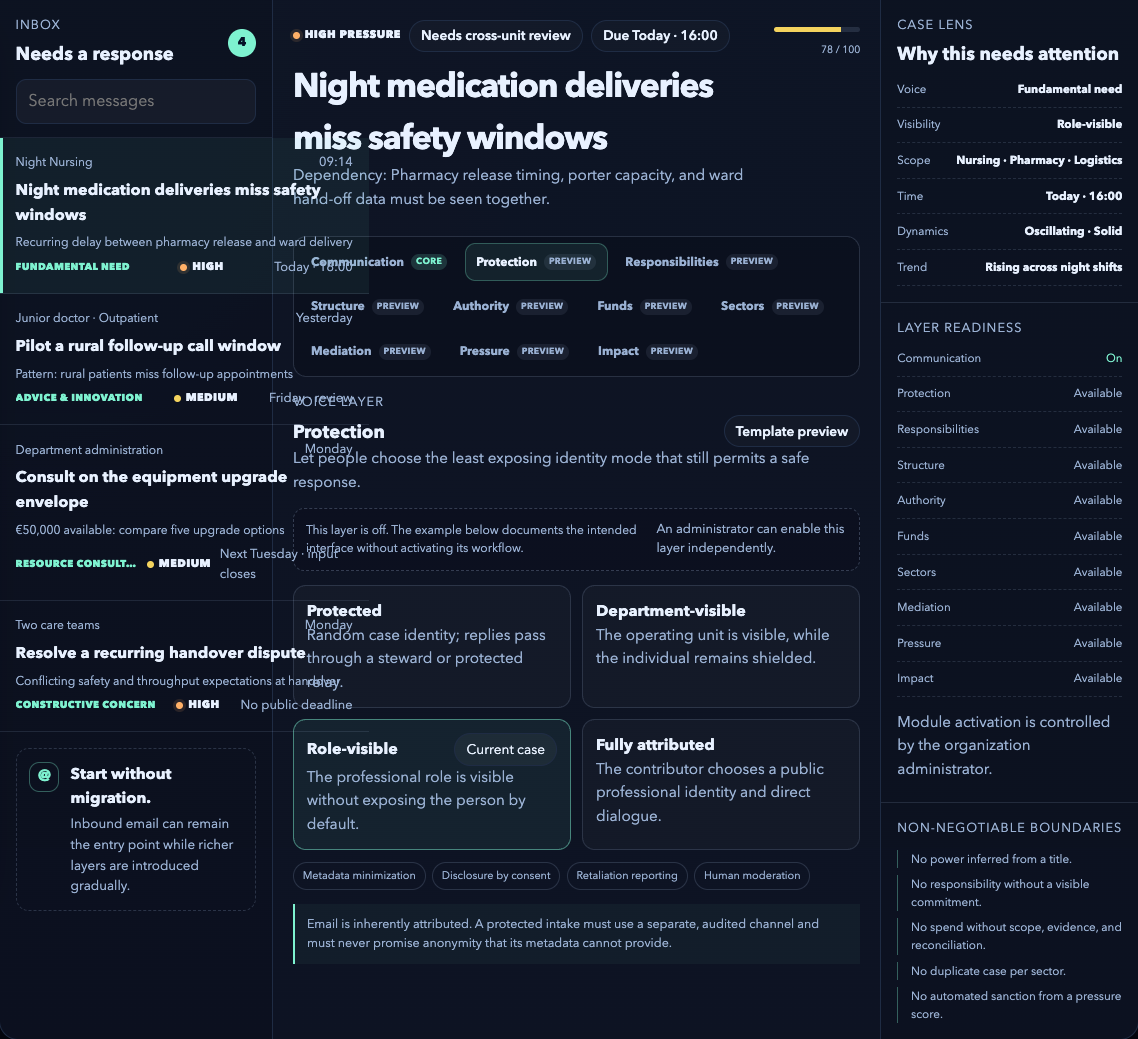
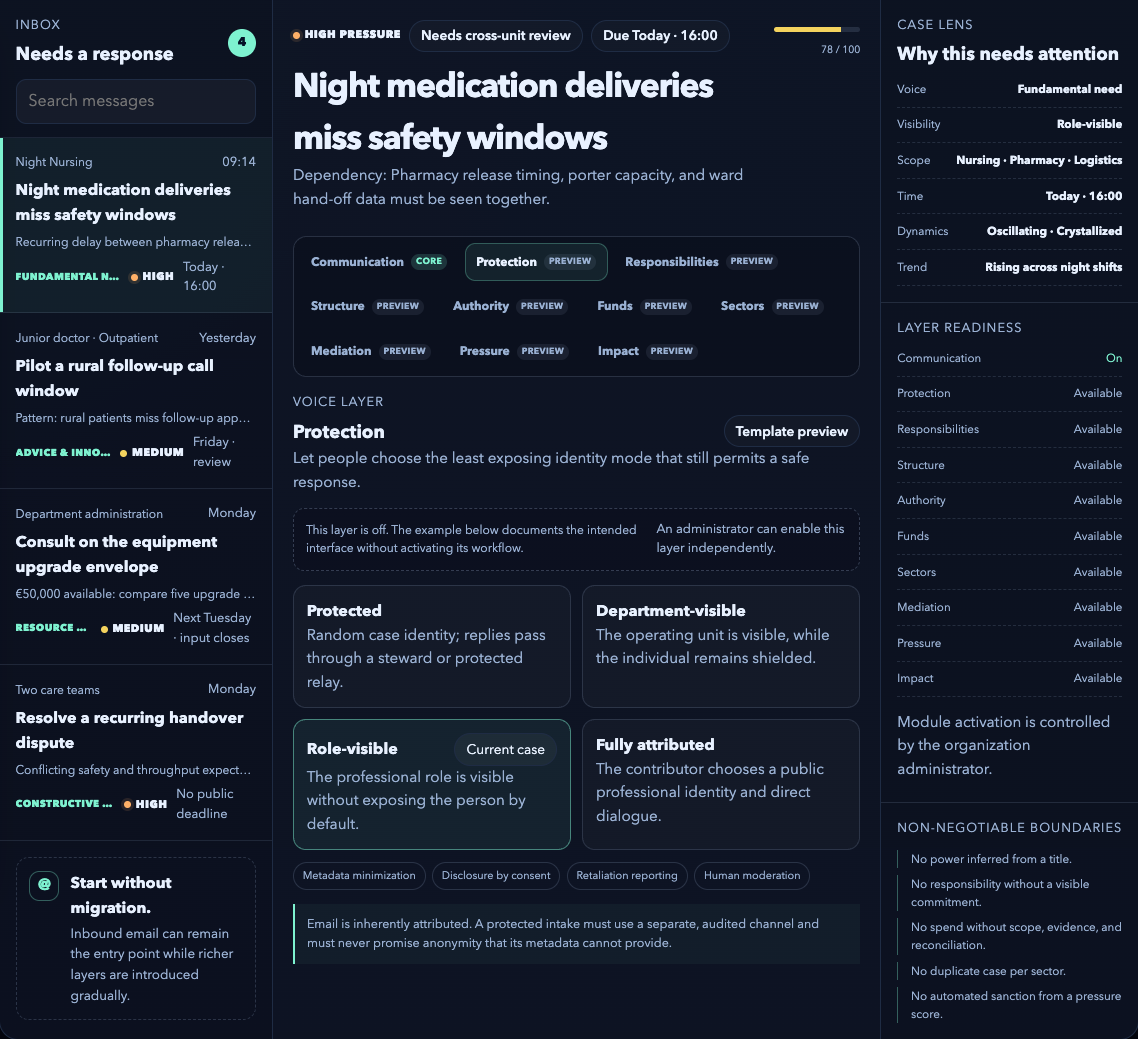
Fix organization inbox overflow and unify lane context panels
UI hardening pass driven by a full walkthrough of the standalone
deployment against the reference scenarios.

Bugs fixed:
- /organization: pressure-inbox cards sized to their nowrap preview line
  and overflowed their column, so right-aligned received/due timestamps
  bled across the seam and overlapped the focused case text. Constrain
  the list to grid-template-columns: minmax(0, 1fr) and add min-width: 0
  to the card so previews truncate inside the column.
- /auth/eudi: the credential-offer deep link is one long unbroken token;
  it overran its column and collided with the QR caption. Move it into a
  contained, wrapping code block (overflow-wrap: anywhere).

UX consistency:
- /discussion and /forum rendered a grey `callout is-verbose` wall of
  label/value lines. Convert both to the shared renderContextPanel so
  gates, facts, and guidance read distinctly — matching /petitions,
  /social, and /admin per the AGENTS context-panel contract.
- Retire the physics-metaphor pressure states in organizationTemplate.js
  (Gas/Liquid/Solid -> Diffuse/Flowing/Crystallized) per
  SimulationScenarios.md; Crystallized is actionable where Solid only
  continued the metaphor.
- Make the sticky side-nav's overflow scrollbar thin/discreet instead of
  a bright full-width system bar.

Docs & assets:
- Regenerate the README walkthrough screenshots (scripts/user-journeys.js)
  against the improved UI; all journeys still pass their assertions.
[…]

diff --git a/src/modules/discussion/http/discussion.js b/src/modules/discussion/http/discussion.js
@@ -19,7 +19,7 @@ import { renderPager } from '../../../interfaces/http/views/shared.js';
 import { paginate, parsePage } from '../../../shared/utils/pagination.js';
 import { renderPage } from '../../../interfaces/http/views/templates.js';
 import { buildTopicOptions, renderTopicDatalist, renderTopicFilterOptions } from '../../../interfaces/http/views/topicHelpers.js';
-import { renderCalloutRow } from '../../../interfaces/http/views/shared.js';
+import { renderContextPanel } from '../../../interfaces/http/views/contextPanel.js';
 
 export async function renderDiscussion({ req, res, state, wantsPartial, url }) {
   const person = getPerson(req, state);
@@ -113,9 +113,6 @@ async function renderDiscussionShell({ state, person, wantsPartial, url }) {
   const policy = getCirclePolicyState(state);
   const permission = evaluateAction(state, person, 'post');
   const actorLabels = getActorLabels(state);
-  const postingStatus = permission.allowed ? 'Posting allowed.' : 'Posting blocked.';
-  const postingReason = permission.allowed ? '' : permission.message || permission.reason || '';
-  const postingReasonLine = renderCalloutRow(postingReason);
   const composeOpen = url?.searchParams?.get('compose') ? 'open' : '';
 
   const baseEntries = filterVisibleEntries(state.discussions, state, (entry) => {
@@ -148,27 +145,38 @@ async function renderDiscussionShell({ state, person, wantsPartial, url }) {
   return renderPage(
     'discussion',
     {
-      ledgerSize: state.uniquenessLedger.size,
       person,
       personHandle: resolvePersonHandle(person),
-      personStatus: person
-        ? `Posting as verified ${actorLabels.actorLabel} with a blinded PID hash for accountability.`
-        : 'Verify your wallet to post with accountability.',
+      discussionContext: renderContextPanel({
+        gates: [
+          {
+            label: 'Post to discussion',
+            status: permission.allowed ? 'Allowed' : 'Blocked',
+            allowed: permission.allowed,
+            reason: permission.allowed ? '' : permission.message || permission.reason || '',
+          },
+        ],
+        facts: [
+          { term: 'Role', value: person?.role || 'guest' },
+          { term: 'Handle', value: resolvePersonHandle(person) || 'Not signed in' },
+          {
+            term: 'Circle',
+            value: policy.enforcement === 'strict'
+              ? 'Strict — verified only'
+              : 'Observing — verification recommended',
+          },
+          { term: 'Ledger', value: `${state.uniquenessLedger.size} verified` },
+          { term: 'Policy', value: `${policy.id} v${policy.version}` },
+        ],
+        guidance: [
+          person
+            ? `Posts inherit your blinded PID hash for accountability; only salted hashes link posts to ${actorLabels.actorLabelPlural}.`
+            : 'Verify your wallet to post with accountability.',
+          'Use discussion for exploration; move decisions to proposals and votes when they are needed.',
+        ],
+      }),
       discussionList: renderDiscussionList(pageInfo.items, state),
       discussionPager,
-      verificationPolicy: policy.requireVerification
-        ? 'Wallet verification required to post.'
-        : 'Wallet verification optional; posting is still tied to your session.',
-      circlePolicy: policy.enforcement === 'strict'
-        ? 'Circle enforcement active: only verified people can post.'
-        : 'Circle enforcement observing: verified and unverified posting allowed.',
-      policyId: policy.id,
-      policyVersion: policy.version,
-      circleName: policy.circleName,
-      hashOnlyMessage: `Hash-only ledger: only salted PID hashes are stored to link posts to ${actorLabels.actorLabelPlural} for accountability.`,
-      postingStatus,
-      postingReasonLine,
-      roleLabel: person?.role || 'guest',
       topicFilterOptions: renderTopicFilterOptions(topicOptions, topicFilterKey),
       topicFilterSelectedAll: topicFilterKey === 'all' ? 'selected' : '',
       topicDatalist: renderTopicDatalist(topicOptions),

diff --git a/src/public/app.css b/src/public/app.css
@@ -240,7 +240,30 @@ header.topbar {
   flex-direction: column;
   gap: 1rem;
   max-height: calc(100vh - 2rem);
-  overflow: auto;
+  overflow-y: auto;
+  overflow-x: hidden;
+  /* The nav is taller than the viewport on smaller screens; keep the scroll
+     affordance discreet instead of a bright full-width system scrollbar. */
+  scrollbar-width: thin;
+  scrollbar-color: rgba(154, 177, 211, 0.28) transparent;
+  overscroll-behavior: contain;
+}
+
+.side-nav::-webkit-scrollbar {
+  width: 7px;
+}
+
+.side-nav::-webkit-scrollbar-track {
+  background: transparent;
+}
+
+.side-nav::-webkit-scrollbar-thumb {
+  background: rgba(154, 177, 211, 0.24);
+  border-radius: 999px;
+}
+
+.side-nav::-webkit-scrollbar-thumb:hover {
+  background: rgba(154, 177, 211, 0.4);
 }
 
 .side-nav__filter {
@@ -971,6 +994,24 @@ ul.plain li:last-child {
   max-width: 240px;
   border-radius: 0.75rem;
   background: #fff;
+}
+
+.deep-link-fallback {
+  display: block;
+  margin-top: 0.4rem;
+  max-height: 6.5rem;
+  overflow-y: auto;
+  padding: 0.55rem 0.7rem;
+  border: 1px solid var(--border);
+  border-radius: 0.6rem;
+  background: rgba(4, 6, 15, 0.4);
+  color: var(--muted);
+  font-size: 0.72rem;
+  line-height: 1.5;
+  /* The credential-offer deep link is a single long unbroken token; force it to
+     wrap so it stays inside its column instead of overrunning the QR panel. */
+  overflow-wrap: anywhere;
+  word-break: break-all;
 }
 
 .discussion-list {
@@ -1986,6 +2027,10 @@ code {
 
 .pressure-case-list {
   display: grid;
+  /* Bound the single column to the inbox width; without this the implicit
+     `auto` track sizes to the widest nowrap preview line, so cards overflowed
+     their column and the right-aligned timestamps bled into the focused case. */
+  grid-template-columns: minmax(0, 1fr);
   border-top: 1px solid rgba(154, 177, 211, 0.12);
 }
 
@@ -1993,6 +2038,7 @@ code {
   display: flex;
   flex-direction: column;
   gap: 0.35rem;
+  min-width: 0;
   padding: 0.95rem 1rem;
   border-bottom: 1px solid rgba(154, 177, 211, 0.14);
   color: var(--text);

diff --git a/src/interfaces/http/views/forumView.js b/src/interfaces/http/views/forumView.js
@@ -11,16 +11,34 @@ import {
   resolveTopicBreadcrumb,
 } from './shared.js';
 import { paginate } from '../../../shared/utils/pagination.js';
+import { renderContextPanel } from './contextPanel.js';
 
 export function renderForum(entries, person, state, options = {}) {
   const { threads, commentsByThread } = splitForumEntries(entries);
   const pageInfo = paginate(threads, { page: options.page || 1 });
+  const postGate = options.postGate;
   return {
     threads: renderThreads(pageInfo.items, commentsByThread, state, options),
     threadsPager: renderPager(pageInfo, { baseHref: '/forum', label: 'threads' }),
     personHandle: resolvePersonHandle(person),
-    roleLabel: person?.role || 'guest',
     composeOpen: options.composeOpen || '',
+    forumContext: renderContextPanel({
+      gates: postGate
+        ? [
+            {
+              label: 'Publish an article',
+              status: postGate.allowed ? 'Allowed' : 'Blocked',
+              allowed: postGate.allowed,
+              reason: postGate.allowed ? '' : postGate.message || postGate.reason || '',
+            },
+          ]
+        : [],
+      facts: [
+        { term: 'Role', value: person?.role || 'guest' },
+        { term: 'Handle', value: resolvePersonHandle(person) || 'Not signed in' },
+      ],
+      guidance: ['Use the forum for deeper context and evidence-backed analysis; keep quick takes in the social lane.'],
+    }),
   };
 }
 

diff --git a/src/modules/organization/organizationTemplate.js b/src/modules/organization/organizationTemplate.js
@@ -90,7 +90,7 @@ export const ORGANIZATION_TEMPLATE_CASES = [
     visibility: 'Role-visible',
     sourceChannel: 'Email',
     pressureType: 'Oscillating',
-    pressureState: 'Solid',
+    pressureState: 'Crystallized',
     temperature: 'Concerned',
     trend: 'Rising across night shifts',
     scope: 'Nursing · Pharmacy · Logistics',
@@ -149,7 +149,7 @@ export const ORGANIZATION_TEMPLATE_CASES = [
     visibility: 'Fully attributed',
     sourceChannel: 'Email',
     pressureType: 'Chronic',
-    pressureState: 'Gas',
+    pressureState: 'Diffuse',
     temperature: 'Professional',
     trend: 'Stable but unresolved',
     scope: 'Outpatient · Social care · Scheduling',
@@ -208,7 +208,7 @@ export const ORGANIZATION_TEMPLATE_CASES = [
     visibility: 'Department-visible',
     sourceChannel: 'Email',
     pressureType: 'Acute',
-    pressureState: 'Liquid',
+    pressureState: 'Flowing',
     temperature: 'Professional',
     trend: 'Decision window open',
     scope: 'Clinical teams · Technical services · Finance',
@@ -267,7 +267,7 @@ export const ORGANIZATION_TEMPLATE_CASES = [
     visibility: 'Protected relay',
     sourceChannel: 'Protected intake',
     pressureType: 'Cascade',
-    pressureState: 'Solid',
+    pressureState: 'Crystallized',
     temperature: 'Warm',
     trend: 'Spreading across shifts',
     scope: 'Two teams · shared handover',

diff --git a/src/modules/discussion/templates/discussion.html b/src/modules/discussion/templates/discussion.html
@@ -2,21 +2,7 @@
   <p class="eyebrow">Discussion</p>
   <h2>Topic discussions</h2>
   <p class="is-verbose">Topic-based conversations tied to verified sessions. Posts inherit the blinded PID hash of the {{actorLabel}} for accountability.</p>
-  <div class="callout is-verbose">
-    <p class="muted">Your handle</p>
-    <code>{{personHandle}}</code>
-    <p class="muted small">{{personStatus}}</p>
-    <p class="muted small">{{verificationPolicy}}</p>
-    <p class="muted small">{{circlePolicy}}</p>
-    <p class="muted small">Role: {{roleLabel}}</p>
-    <p class="muted small">{{postingStatus}}</p>
-    {{postingReasonLine}}
-    <p class="muted small">Policy {{policyId}} v{{policyVersion}}</p>
-    <p class="muted small">Circle: {{circleName}}</p>
-    <p class="muted small">Ledger size: {{ledgerSize}}</p>
-    <p class="muted small">{{hashOnlyMessage}}</p>
-    <p class="muted small">Use discussion for exploration; move decisions to proposals/votes when needed.</p>
-  </div>
+  {{discussionContext}}
   <details class="form-toggle" {{composeOpen}}>
     <summary>Start a discussion post</summary>
     <form class="stack" method="post" action="/discussion" data-enhance="discussion">

diff --git a/src/modules/forum/http/forum.js b/src/modules/forum/http/forum.js
@@ -152,7 +152,8 @@ async function renderForumPage({ req, res, state, wantsPartial, person, url }) {
   const replyOpenId = resolvedUrl.searchParams.get('reply') || '';
   const page = parsePage(resolvedUrl.searchParams.get('page'));
   const forumEntries = filterForumEntries(state);
-  const forumData = renderForum(forumEntries, activePerson, state, { composeOpen, replyOpenId, page });
+  const postGate = evaluateAction(state, activePerson, 'post');
+  const forumData = renderForum(forumEntries, activePerson, state, { composeOpen, replyOpenId, page, postGate });
   forumData.person = activePerson;
   const html = await renderPage('forum', forumData, { wantsPartial, title: 'Forum', state });
   return sendHtml(res, html);

diff --git a/src/modules/auth/templates/auth-eudi.html b/src/modules/auth/templates/auth-eudi.html
@@ -17,7 +17,8 @@
         <a class="cta" href="{{deepLink}}" data-deep-link="{{deepLink}}">Open wallet</a>
         <a class="ghost is-verbose inline" href="/auth/callback?session={{sessionId}}&pidHash={{demoHash}}" data-partial>Developer shortcut: simulate callback</a>
       </div>
-      <p class="muted small">If your browser blocks the deep link, copy and paste it: <span data-deep-link-fallback>{{deepLink}}</span></p>
+      <p class="muted small">If your browser blocks the deep link, copy and paste it:</p>
+      <code class="deep-link-fallback" data-deep-link-fallback>{{deepLink}}</code>
     </div>
     <div class="qr">
       <p class="eyebrow">Desktop QR</p>

diff --git a/src/modules/forum/templates/forum.html b/src/modules/forum/templates/forum.html
@@ -12,11 +12,7 @@
     <section class="panel sticky-panel" id="forum-compose">
       <p class="eyebrow">Forum</p>
       <h2>Long-form analysis</h2>
-      <div class="callout is-verbose">
-        <p class="muted small">Handle: {{personHandle}}</p>
-        <p class="muted small">Role: {{roleLabel}}</p>
-        <p class="muted small">Use the forum for deeper context and evidence-backed analysis.</p>
-      </div>
+      {{forumContext}}
       <details class="form-toggle" {{composeOpen}}>
         <summary>Write a new article</summary>
         <form class="stack" method="post" action="/forum" data-enhance="forum">

diff --git a/OPTIMIZATIONS.md b/OPTIMIZATIONS.md
@@ -55,11 +55,11 @@ This file tracks follow-up ideas that are out of scope for the current patch but
 - Centralize module-lane definitions (organization operations vs social/community vs civic governance vs federation) so admin, nav, and home summaries cannot drift.
 
 ## UX Consistency
-- Finish migrating the remaining `callout is-verbose` label/value dumps to the shared context panel (`interfaces/http/views/contextPanel.js`). `/petitions`, `/social`, and the `/admin` circle-settings block are converted; `discussion.html` (14 lines), `forum.html`, and `auth-eudi.html` still flatten gates, facts, and guidance into one muted list.
+- Finish migrating the remaining `callout is-verbose` label/value dumps to the shared context panel (`interfaces/http/views/contextPanel.js`). `/petitions`, `/social`, the `/admin` circle-settings block, `/discussion`, and `/forum` are converted; `auth-eudi.html`'s three-line verifier callout (`hashOnlyMessage`/`policyNote`/`resumeHint`) still flattens facts and guidance into one muted list — fold it into `renderContextPanel` facts/guidance for full consistency.
 - `/organization` opens with a full-width marketing hero ("Turn incoming pressure into accountable action") before the inbox, which contradicts the AGENTS UX contract that the route "starts with a familiar inbox and source message". Consider demoting the hero to a compact strip (or `is-verbose`) so the workspace is above the fold.
 - The topbar brand block (orb + eyebrow + H1 + tagline + session line) consumes ~200px of vertical space on every page before any content. A compact variant would put the workspace above the fold on laptop viewports.
 - `/transactions` and `/extensions` return JSON to browsers even for `Accept: text/html`, so they are API endpoints with page-shaped URLs. Either give them SSR views (docs describe both as catalogs/audit views) or move them under an explicit `/api/` prefix; in-app links now route to `/admin#admin-transactions` and `/admin#extensions` instead.
-- `.pressure-case__classification` and the pressure inbox `<article>` cards clip their own text (`overflow-x: hidden`, content wider than the box) on `/organization`; the labels need wrapping or truncation with a title attribute rather than a hard cut.
+- `.pressure-case__classification` truncates its voice-type label with an ellipsis (e.g. "FUNDAMENTAL N…") but carries no `title` attribute, so the full value is not discoverable on hover. (The prior, worse bug — inbox cards sizing to their nowrap preview line and overflowing the column so right-aligned timestamps bled into the focused case — is fixed by constraining `.pressure-case-list` to `grid-template-columns: minmax(0, 1fr)` and adding `min-width: 0` to `.pressure-case`.)
 - Ship a favicon: every page load logs a 404 for `/favicon.ico` in the browser console.
 - Replace the mobile side-navigation height cap with an accessible disclosure or compact horizontal section switcher, preserving keyboard search while putting page content above the fold.
 - Add a shared “illustrative data / template preview / persisted workflow” treatment so prototype organization layers can never be mistaken for live delivery, protected intake, financial execution, or pressure analysis.

diff --git a/principle-docs/SimulationScenarios.md b/principle-docs/SimulationScenarios.md
@@ -1023,30 +1023,30 @@ be written:
   funds records, mediation, impact reviews. Module-owned records, created lazily
   when a layer is enabled, per the canonical case contract. Not built.
 
-### A vocabulary drift to fix first
+### A vocabulary drift (physics metaphor retired)
 
-The cases above use the pressure states this principle doc defines. The code
-does not: `organizationTemplate.js` still ships the **physics metaphor** the doc
-moved away from, and has no `Critical` state at all.
+The cases above use the pressure states this principle doc defines, and
+`organizationTemplate.js` now matches them: the **physics metaphor** the doc
+moved away from has been renamed. `Critical` remains the one unmodelled state.
 
-| Code today | This doc | Note |
-| --- | --- | --- |
-| `Gas` | `Diffuse` | many vague or disconnected signals |
-| `Liquid` | `Flowing` | issues move and get responses |
-| `Solid` | `Crystallized` | persists, hardens into workaround and distrust |
-| *(absent)* | `Critical` | fast, high-consequence, near operating limits |
+| Was in code | Now in code | This doc | Note |
+| --- | --- | --- | --- |
+| `Gas` | `Diffuse` | `Diffuse` | many vague or disconnected signals |
+| `Liquid` | `Flowing` | `Flowing` | issues move and get responses |
+| `Solid` | `Crystallized` | `Crystallized` | persists, hardens into workaround and distrust |
+| *(absent)* | *(absent)* | `Critical` | fast, high-consequence, near operating limits |
 
-This is not cosmetic. §*Non-goals* names "treating metaphorical pressure physics
-as scientific proof" as a thing to avoid, and `Gas`/`Liquid`/`Solid` is that
+This was not cosmetic. §*Non-goals* names "treating metaphorical pressure physics
+as scientific proof" as a thing to avoid, and `Gas`/`Liquid`/`Solid` was that
 metaphor presented as a state machine. `Crystallized` says something a reader
 can act on — *this recurs and people have stopped expecting a fix* — where
-`Solid` says only that the metaphor continues. The missing `Critical` state is
-worse than a naming gap: it is the state that should route to **B5.1**,
-emergency command with recorded bypass and later review.
+`Solid` said only that the metaphor continues. The still-missing `Critical` state
+is worse than a naming gap: it is the state that should route to **B5.1**,
+emergency command with recorded bypass and later review. Add it when the
+template cases are replaced with the Scenario B content.
 
-Rename when replacing the template cases, and the `pressureType` values
-(`Acute`, `Chronic`, `Oscillating`, `Cascade`) can stay — the doc keeps those as
-case descriptors.
+The `pressureType` values (`Acute`, `Chronic`, `Oscillating`, `Cascade`) stay —
+the doc keeps those as case descriptors.
 
 ---
 
